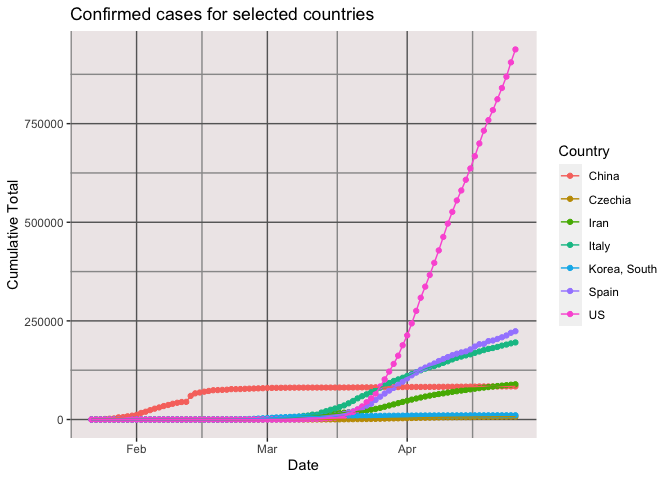
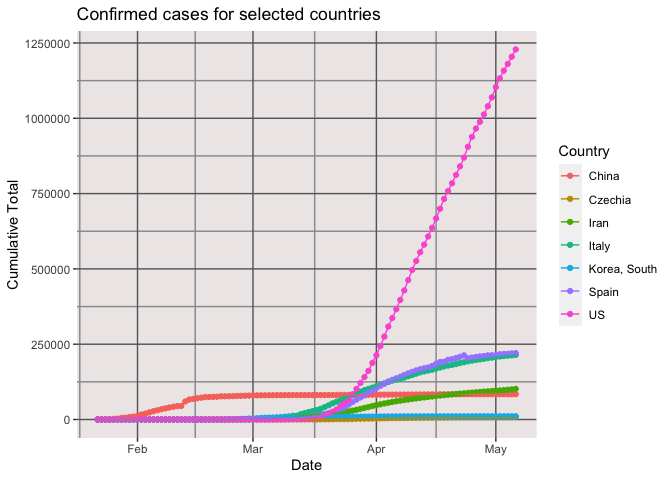
Data thru 2020-05-06.

Changed region(s): [[0.0312, 0.0, 0.7812, 1.0]]

diff --git a/vignettes/covid19_deaths_by_state.md b/vignettes/covid19_deaths_by_state.md
@@ -1,7 +1,7 @@
 COVID-19 Deaths by State
 ================
 [Jim Tyhurst, Ph.D.](https://www.jimtyhurst.com/)
-2020-04-26
+2020-05-07
 
   - [Read data](#read-data)
   - [Cases by state](#cases-by-state)

diff --git a/vignettes/covid19_confirmed_cases.md b/vignettes/covid19_confirmed_cases.md
@@ -1,7 +1,7 @@
 COVID-19 Confirmed Cases
 ================
 [Jim Tyhurst, Ph.D.](https://www.jimtyhurst.com/)
-2020-04-26
+2020-05-07
 
   - [tl;dr](#tldr)
 

diff --git a/vignettes/covid19_deaths.md b/vignettes/covid19_deaths.md
@@ -1,7 +1,7 @@
 COVID-19 Deaths
 ================
 [Jim Tyhurst, Ph.D.](https://www.jimtyhurst.com/)
-2020-04-26
+2020-05-07
 
   - [tl;dr](#tldr)
 
